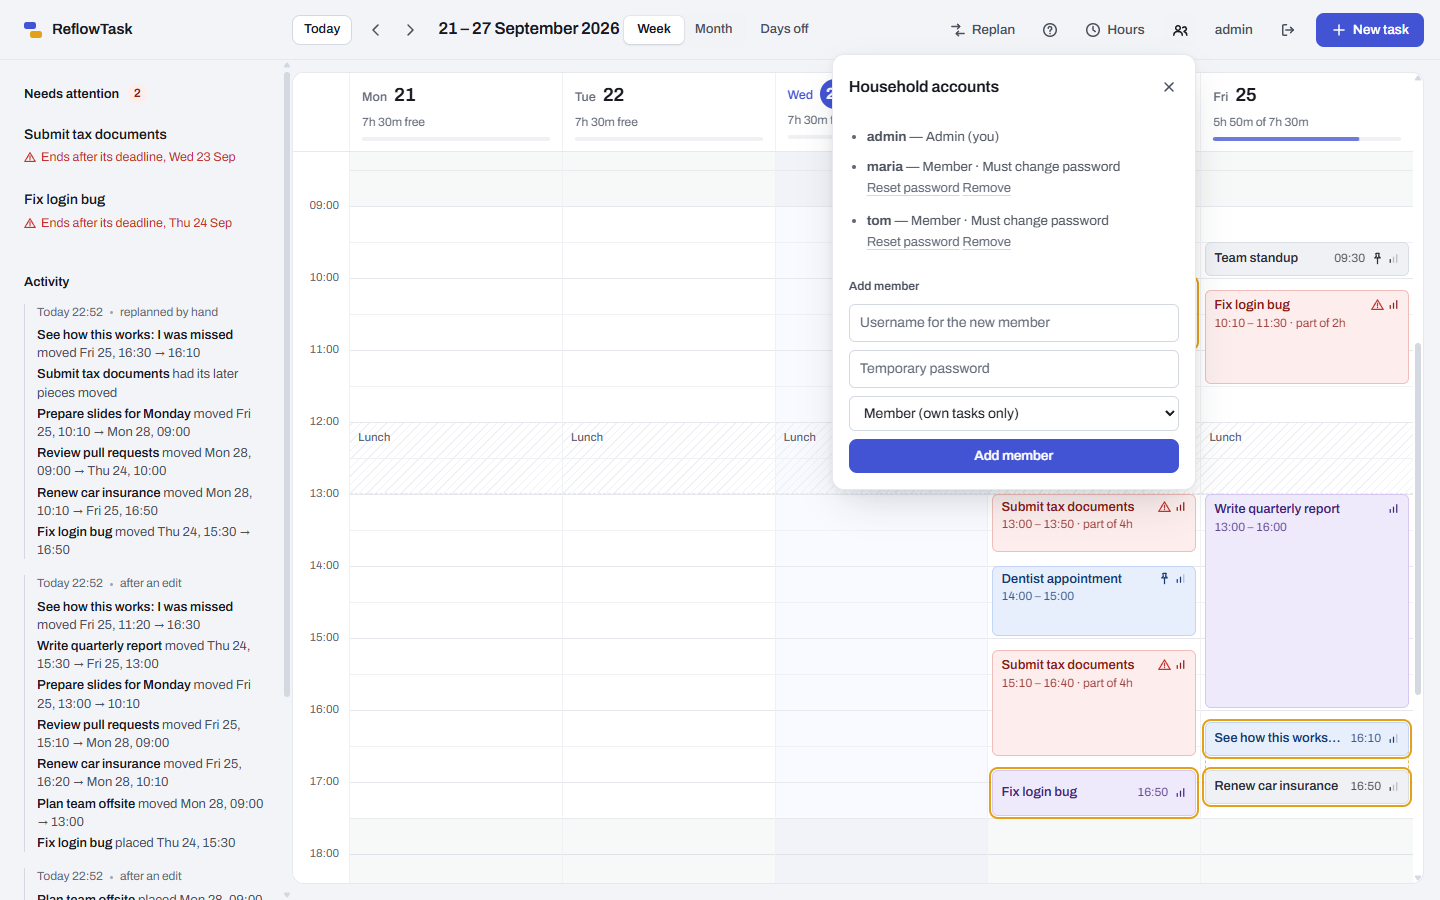
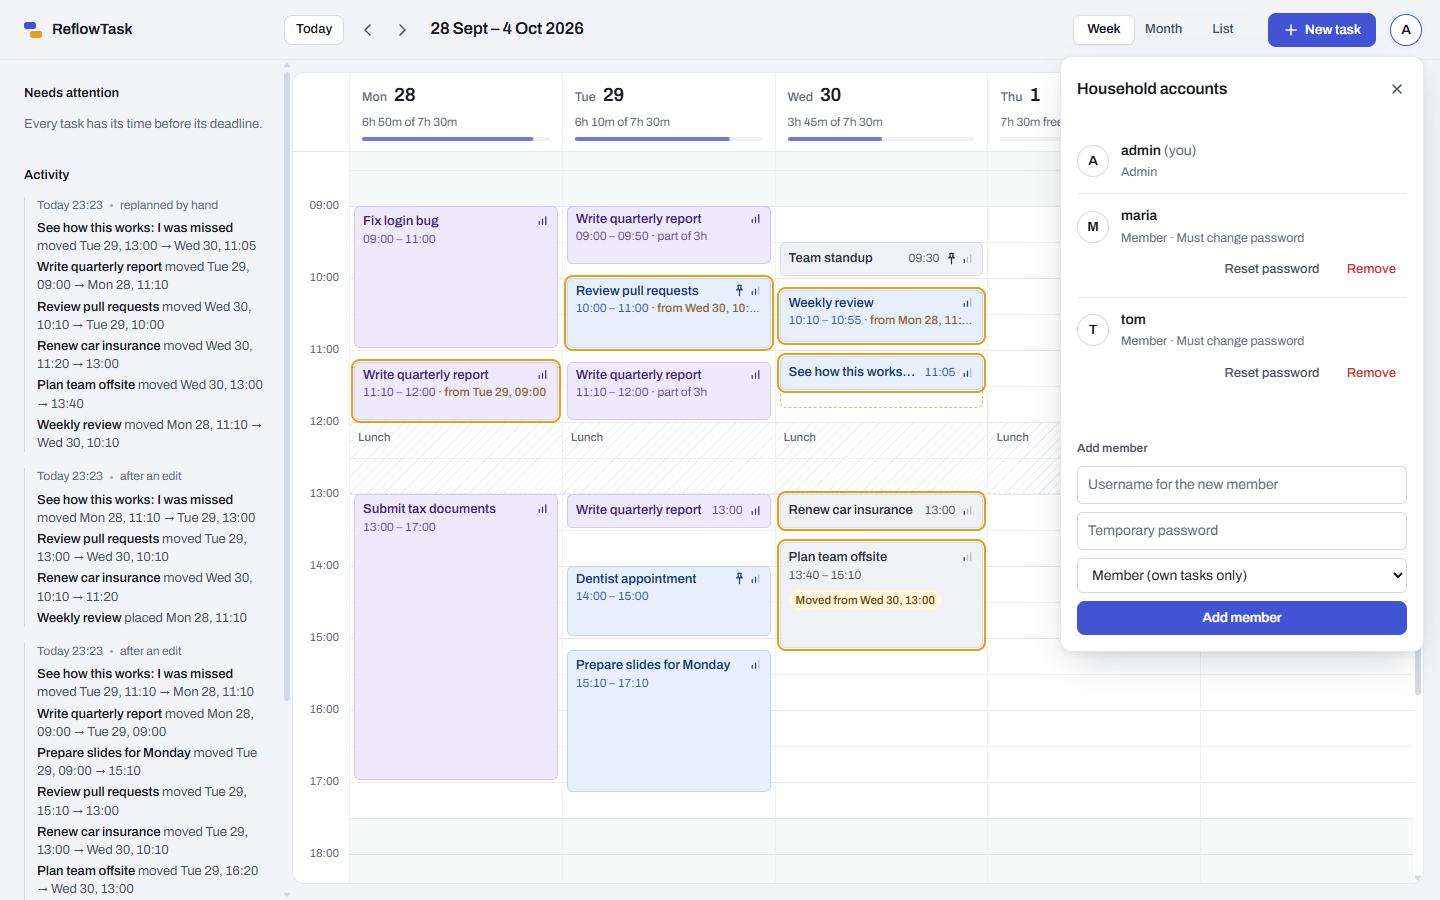
docs: screenshots of the new top bar, list, menu and phone layout
Retakes every README and setup-guide screenshot from a fresh instance with
the same sample data, now showing the week ahead, and adds the list view,
the avatar menu and two phone views. The household accounts panel becomes a
proper list (initial, name, role, actions as small buttons), and blocks no
longer glide in from off-screen when a phone switches day or days off are
toggled.

diff --git a/frontend/src/auth/UserManagement.tsx b/frontend/src/auth/UserManagement.tsx
@@ -5,6 +5,7 @@ import { CloseIcon } from '../design/Icon'
 import { t } from '../i18n/en'
 import { useCreateUser, useDeleteUser, useResetPassword, useUsers } from '../lib/auth'
 import { describe } from './describe'
+import { initial } from './MainMenu'
 
 interface UserManagementProps {
   currentUser: AuthUser
@@ -66,18 +67,27 @@ export function UserManagement({ currentUser, onClose, headingId }: UserManageme
         </button>
       </div>
 
-      <ul className="help-list">
+      <ul className="people">
         {(users.data ?? []).map((user) => (
-          <li key={user.id}>
-            <strong>{user.username}</strong> — {user.role === 'ADMIN' ? t('auth.admin') : t('auth.member')}
-            {user.id === currentUser.id && ` (${t('auth.you')})`}
-            {user.mustChangePassword && ` · ${t('auth.mustChangePassword')}`}
+          <li key={user.id} className="person">
+            <span className="avatar" aria-hidden="true">
+              {initial(user.username)}
+            </span>
+            <span className="person-who">
+              <strong>
+                {user.username}
+                {user.id === currentUser.id && <span className="person-you"> ({t('auth.you')})</span>}
+              </strong>
+              <span className="person-meta">
+                {user.role === 'ADMIN' ? t('auth.admin') : t('auth.member')}
+                {user.mustChangePassword && ` · ${t('auth.mustChangePassword')}`}
+              </span>
+            </span>
             {user.id !== currentUser.id && (
-              <>
-                {' '}
+              <span className="person-actions">
                 <button
                   type="button"
-                  className="link-button"
+                  className="button button-ghost button-small"
                   onClick={() => {
                     setResetting(user)
                     setTemporary('')
@@ -86,22 +96,22 @@ export function UserManagement({ currentUser, onClose, headingId }: UserManageme
                   }}
                 >
                   {t('auth.resetPassword')}
-                </button>{' '}
+                </button>
                 {removing === user.id ? (
                   <button
                     type="button"
-                    className="link-button"
+                    className="button button-danger button-small"
                     onClick={() => deleteUser.mutate(user.id, { onSettled: () => setRemoving(null) })}
                     disabled={deleteUser.isPending}
                   >
                     {t('auth.confirmRemove')}
                   </button>
                 ) : (
-                  <button type="button" className="link-button" onClick={() => setRemoving(user.id)}>
+                  <button type="button" className="button button-quiet-danger button-small" onClick={() => setRemoving(user.id)}>
                     {t('action.remove')}
                   </button>
                 )}
-              </>
+              </span>
             )}
           </li>
         ))}

diff --git a/frontend/src/design/app.css b/frontend/src/design/app.css
@@ -2529,3 +2529,57 @@ a.button {
   outline: 2px solid var(--accent);
   outline-offset: 3px;
 }
+
+/* ── Household accounts ───────────────────────────────────────────────────── */
+
+.people {
+  display: flex;
+  flex-direction: column;
+  margin: 0 0 var(--space-4);
+  padding: 0;
+  list-style: none;
+}
+
+.person {
+  display: flex;
+  flex-wrap: wrap;
+  align-items: center;
+  gap: var(--space-2) var(--space-3);
+  padding: var(--space-3) 0;
+}
+
+.person + .person {
+  border-top: 1px solid var(--line);
+}
+
+.person-who {
+  display: flex;
+  flex: 1 1 120px;
+  flex-direction: column;
+  gap: 2px;
+  min-width: 0;
+}
+
+.person-who strong {
+  overflow: hidden;
+  font-size: 14px;
+  font-weight: 600;
+  text-overflow: ellipsis;
+  white-space: nowrap;
+}
+
+.person-you {
+  color: var(--ink-3);
+  font-weight: 400;
+}
+
+.person-meta {
+  color: var(--ink-3);
+  font-size: 12.5px;
+}
+
+.person-actions {
+  display: flex;
+  gap: var(--space-1);
+  margin-left: auto;
+}

diff --git a/frontend/src/week/WeekGrid.tsx b/frontend/src/week/WeekGrid.tsx
@@ -178,7 +178,9 @@ export function WeekGrid({
    */
   const positions = useRef<{ week: string; at: Map<string, { dayIndex: number; start: number }> } | null>(null)
   useLayoutEffect(() => {
-    const week = toLocalDateTime(weekStart)
+    // Positions are column indexes, so they only compare while the same days are shown: switching
+    // the day on a phone or showing days off is not a replan, and nothing should glide.
+    const week = `${toLocalDateTime(weekStart)}|${days.join()}`
     const previous = positions.current?.week === week ? positions.current.at : null
     const next = new Map<string, { dayIndex: number; start: number }>()
     const root = columnsRef.current
@@ -202,7 +204,7 @@ export function WeekGrid({
     }
     positions.current = { week, at: next }
     if (!preview) dropped.current = null
-  }, [placed, preview, weekStart])
+  }, [placed, preview, weekStart, days])
 
   function editable(block: Block) {
     return !busy && block.status !== 'DONE' && block.state === 'PLANNED' && new Date(block.endAt) > now

diff --git a/README.md b/README.md
@@ -104,6 +104,16 @@ The **month view** is a read-only overview of the whole month; click a day to op
 **list view** shows every task, planned or not: search titles and notes, filter open or done, tick
 one off, or click its next time to jump to that week.
 
+| List view | The menu behind your initial |
+| --- | --- |
+| ![List](docs/images/list.png) | ![Menu](docs/images/menu.png) |
+
+On a phone, the same app as one day at a time, with the views as tabs:
+
+| Day | List |
+| --- | --- |
+| <img src="docs/images/phone-day.png" alt="Phone: one day, with the week as a strip above it" width="280"> | <img src="docs/images/phone-list.png" alt="Phone: the task list" width="280"> |
+
 **Your week, your rules**
 
 - Working hours per weekday, breaks such as lunch, a buffer between tasks, how far ahead to plan
